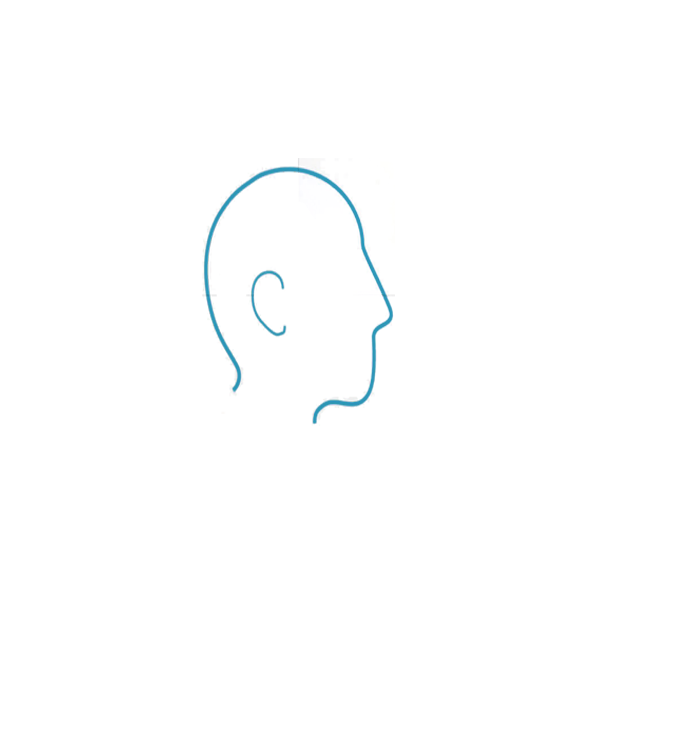
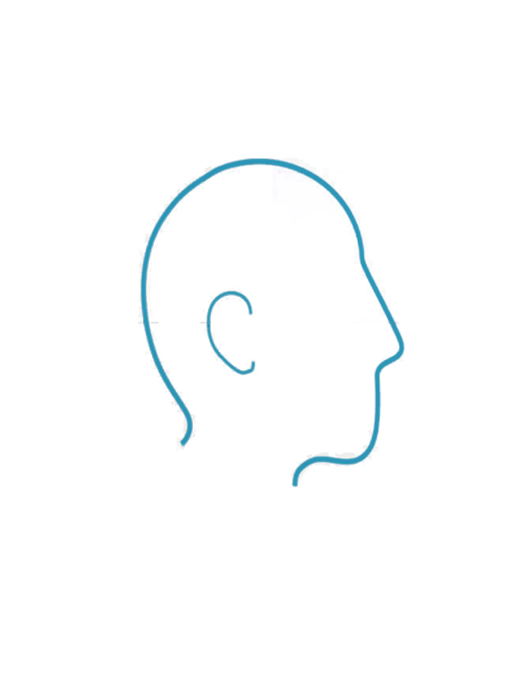
silueta del perfil arreglado

diff --git a/examples/examples-browser/views/tomarFoto.html b/examples/examples-browser/views/tomarFoto.html
@@ -74,8 +74,8 @@
     }
     #perfil{
       position: absolute;
-      top: 48%;
-      left: 54%;
+      top: 39%;
+      left: 50%;
       display: none;
     }
 
